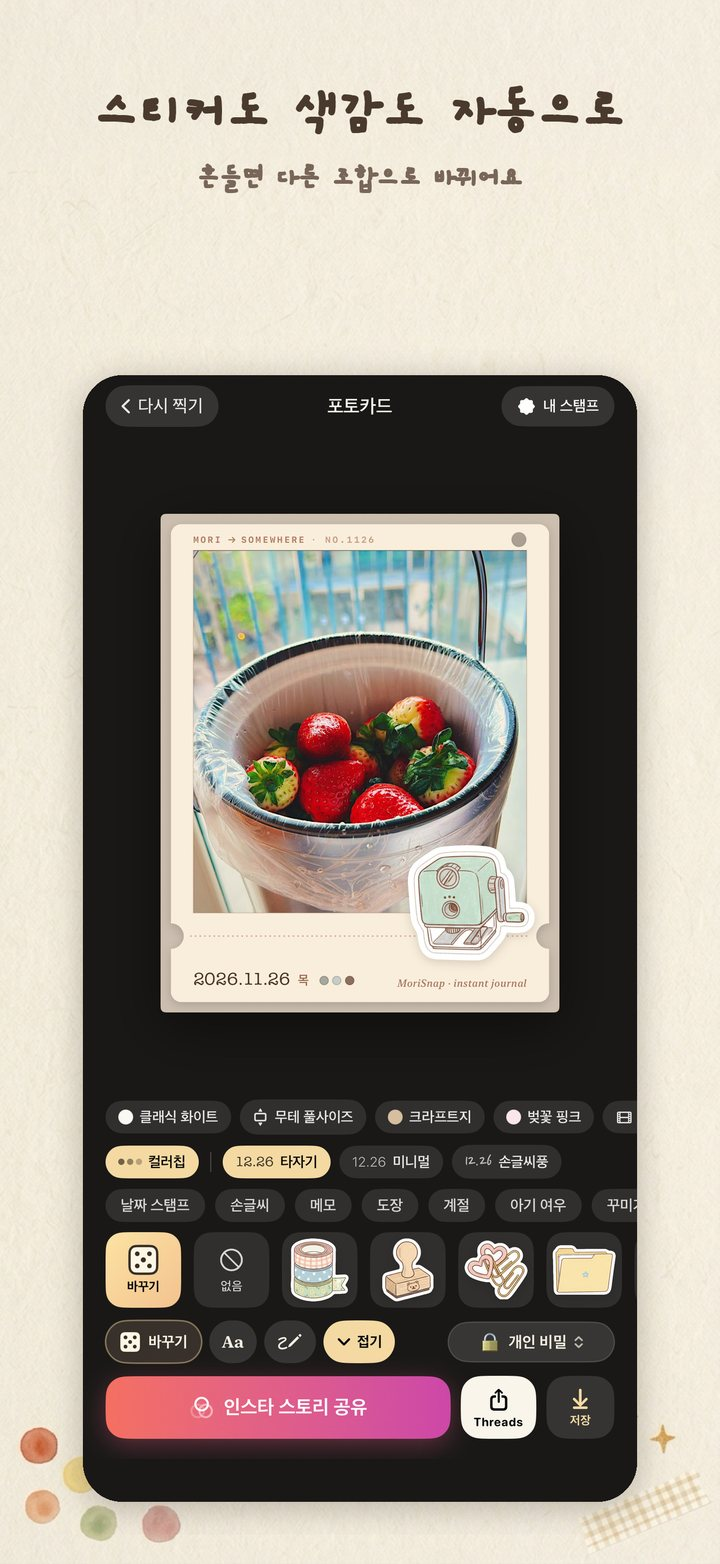
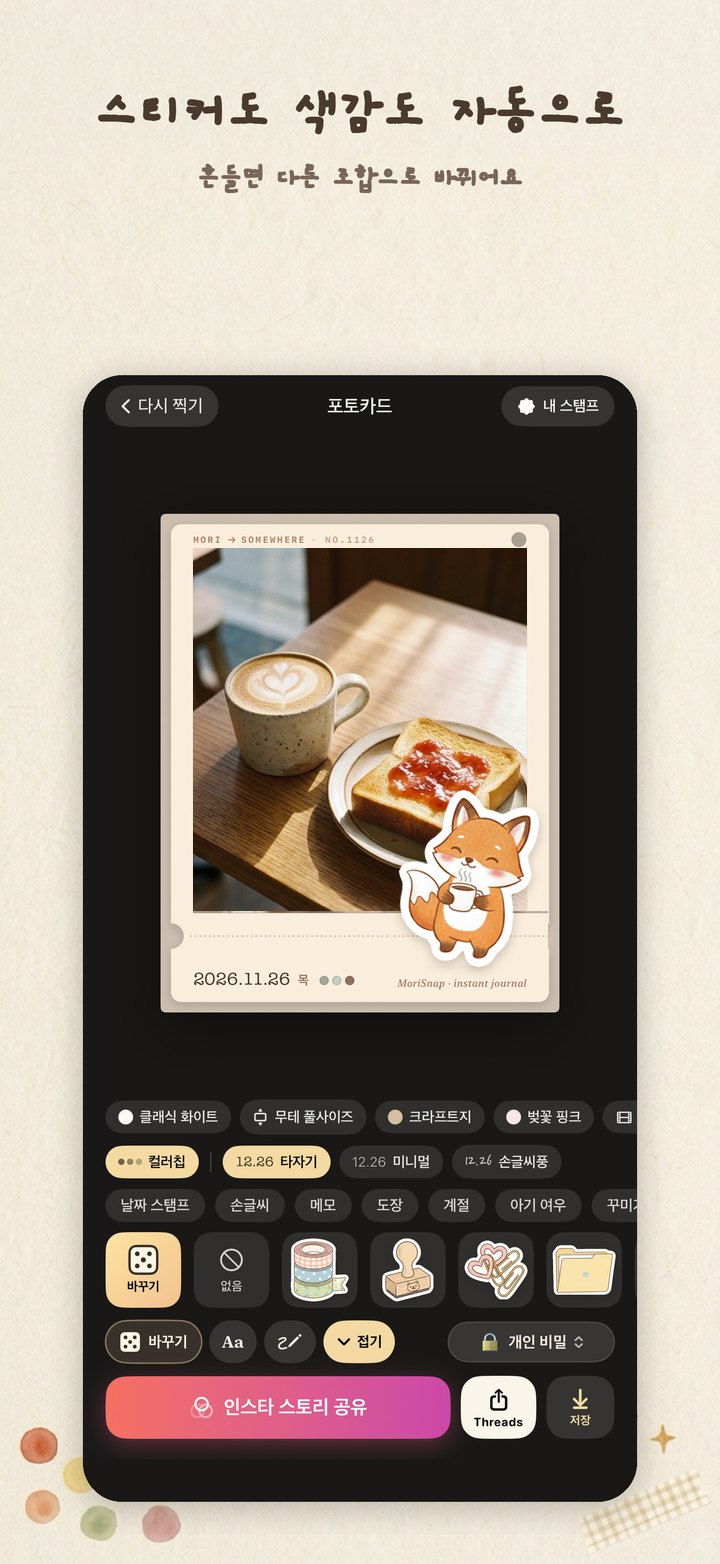
Upgrade 8 localized App Store screenshots on website with latte toast & strawberry parfait + Little Fox stickers

Changed region(s): [[0.2444, 0.3376, 0.7639, 0.6445]]

diff --git a/index.html b/index.html
@@ -83,12 +83,12 @@
     <span class="badge">6 張 iOS 實機截圖</span>
   </div>
   <div class="appstore-strip" aria-label="MoriSnap 繁體中文實機畫面">
-    <button type="button" class="appstore-shot" data-zoom="assets/appstore/zh/01.jpg"><img src="assets/appstore/zh/01.jpg" alt="MoriSnap 實機畫面 1" loading="lazy"></button>
-    <button type="button" class="appstore-shot" data-zoom="assets/appstore/zh/02.jpg"><img src="assets/appstore/zh/02.jpg" alt="MoriSnap 實機畫面 2" loading="lazy"></button>
-    <button type="button" class="appstore-shot" data-zoom="assets/appstore/zh/03.jpg"><img src="assets/appstore/zh/03.jpg" alt="MoriSnap 實機畫面 3" loading="lazy"></button>
-    <button type="button" class="appstore-shot" data-zoom="assets/appstore/zh/04.jpg"><img src="assets/appstore/zh/04.jpg" alt="MoriSnap 實機畫面 4" loading="lazy"></button>
-    <button type="button" class="appstore-shot" data-zoom="assets/appstore/zh/05.jpg"><img src="assets/appstore/zh/05.jpg" alt="MoriSnap 實機畫面 5" loading="lazy"></button>
-    <button type="button" class="appstore-shot" data-zoom="assets/appstore/zh/06.jpg"><img src="assets/appstore/zh/06.jpg" alt="MoriSnap 實機畫面 6" loading="lazy"></button>
+    <button type="button" class="appstore-shot" data-zoom="assets/appstore/zh/01.jpg?v=2"><img src="assets/appstore/zh/01.jpg?v=2" alt="MoriSnap 實機畫面 1" loading="lazy"></button>
+    <button type="button" class="appstore-shot" data-zoom="assets/appstore/zh/02.jpg?v=2"><img src="assets/appstore/zh/02.jpg?v=2" alt="MoriSnap 實機畫面 2" loading="lazy"></button>
+    <button type="button" class="appstore-shot" data-zoom="assets/appstore/zh/03.jpg?v=2"><img src="assets/appstore/zh/03.jpg?v=2" alt="MoriSnap 實機畫面 3" loading="lazy"></button>
+    <button type="button" class="appstore-shot" data-zoom="assets/appstore/zh/04.jpg?v=2"><img src="assets/appstore/zh/04.jpg?v=2" alt="MoriSnap 實機畫面 4" loading="lazy"></button>
+    <button type="button" class="appstore-shot" data-zoom="assets/appstore/zh/05.jpg?v=2"><img src="assets/appstore/zh/05.jpg?v=2" alt="MoriSnap 實機畫面 5" loading="lazy"></button>
+    <button type="button" class="appstore-shot" data-zoom="assets/appstore/zh/06.jpg?v=2"><img src="assets/appstore/zh/06.jpg?v=2" alt="MoriSnap 實機畫面 6" loading="lazy"></button>
   </div>
 
   <!-- 8 支玩法短片放映室 -->
@@ -230,12 +230,12 @@
     <span class="badge">6 App Store Screens</span>
   </div>
   <div class="appstore-strip" aria-label="MoriSnap English iOS screenshots">
-    <button type="button" class="appstore-shot" data-zoom="assets/appstore/en/01.jpg"><img src="assets/appstore/en/01.jpg" alt="MoriSnap iOS Screenshot 1" loading="lazy"></button>
-    <button type="button" class="appstore-shot" data-zoom="assets/appstore/en/02.jpg"><img src="assets/appstore/en/02.jpg" alt="MoriSnap iOS Screenshot 2" loading="lazy"></button>
-    <button type="button" class="appstore-shot" data-zoom="assets/appstore/en/03.jpg"><img src="assets/appstore/en/03.jpg" alt="MoriSnap iOS Screenshot 3" loading="lazy"></button>
-    <button type="button" class="appstore-shot" data-zoom="assets/appstore/en/04.jpg"><img src="assets/appstore/en/04.jpg" alt="MoriSnap iOS Screenshot 4" loading="lazy"></button>
-    <button type="button" class="appstore-shot" data-zoom="assets/appstore/en/05.jpg"><img src="assets/appstore/en/05.jpg" alt="MoriSnap iOS Screenshot 5" loading="lazy"></button>
-    <button type="button" class="appstore-shot" data-zoom="assets/appstore/en/06.jpg"><img src="assets/appstore/en/06.jpg" alt="MoriSnap iOS Screenshot 6" loading="lazy"></button>
+    <button type="button" class="appstore-shot" data-zoom="assets/appstore/en/01.jpg?v=2"><img src="assets/appstore/en/01.jpg?v=2" alt="MoriSnap iOS Screenshot 1" loading="lazy"></button>
+    <button type="button" class="appstore-shot" data-zoom="assets/appstore/en/02.jpg?v=2"><img src="assets/appstore/en/02.jpg?v=2" alt="MoriSnap iOS Screenshot 2" loading="lazy"></button>
+    <button type="button" class="appstore-shot" data-zoom="assets/appstore/en/03.jpg?v=2"><img src="assets/appstore/en/03.jpg?v=2" alt="MoriSnap iOS Screenshot 3" loading="lazy"></button>
+    <button type="button" class="appstore-shot" data-zoom="assets/appstore/en/04.jpg?v=2"><img src="assets/appstore/en/04.jpg?v=2" alt="MoriSnap iOS Screenshot 4" loading="lazy"></button>
+    <button type="button" class="appstore-shot" data-zoom="assets/appstore/en/05.jpg?v=2"><img src="assets/appstore/en/05.jpg?v=2" alt="MoriSnap iOS Screenshot 5" loading="lazy"></button>
+    <button type="button" class="appstore-shot" data-zoom="assets/appstore/en/06.jpg?v=2"><img src="assets/appstore/en/06.jpg?v=2" alt="MoriSnap iOS Screenshot 6" loading="lazy"></button>
   </div>
 
   <div class="theater-wrap" data-theater>
@@ -372,12 +372,12 @@
     <span class="badge">iOS 画面 6 枚</span>
   </div>
   <div class="appstore-strip" aria-label="MoriSnap 日本語アプリ画面">
-    <button type="button" class="appstore-shot" data-zoom="assets/appstore/ja/01.jpg"><img src="assets/appstore/ja/01.jpg" alt="MoriSnap アプリ画面 1" loading="lazy"></button>
-    <button type="button" class="appstore-shot" data-zoom="assets/appstore/ja/02.jpg"><img src="assets/appstore/ja/02.jpg" alt="MoriSnap アプリ画面 2" loading="lazy"></button>
-    <button type="button" class="appstore-shot" data-zoom="assets/appstore/ja/03.jpg"><img src="assets/appstore/ja/03.jpg" alt="MoriSnap アプリ画面 3" loading="lazy"></button>
-    <button type="button" class="appstore-shot" data-zoom="assets/appstore/ja/04.jpg"><img src="assets/appstore/ja/04.jpg" alt="MoriSnap アプリ画面 4" loading="lazy"></button>
-    <button type="button" class="appstore-shot" data-zoom="assets/appstore/ja/05.jpg"><img src="assets/appstore/ja/05.jpg" alt="MoriSnap アプリ画面 5" loading="lazy"></button>
-    <button type="button" class="appstore-shot" data-zoom="assets/appstore/ja/06.jpg"><img src="assets/appstore/ja/06.jpg" alt="MoriSnap アプリ画面 6" loading="lazy"></button>
+    <button type="button" class="appstore-shot" data-zoom="assets/appstore/ja/01.jpg?v=2"><img src="assets/appstore/ja/01.jpg?v=2" alt="MoriSnap アプリ画面 1" loading="lazy"></button>
+    <button type="button" class="appstore-shot" data-zoom="assets/appstore/ja/02.jpg?v=2"><img src="assets/appstore/ja/02.jpg?v=2" alt="MoriSnap アプリ画面 2" loading="lazy"></button>
+    <button type="button" class="appstore-shot" data-zoom="assets/appstore/ja/03.jpg?v=2"><img src="assets/appstore/ja/03.jpg?v=2" alt="MoriSnap アプリ画面 3" loading="lazy"></button>
+    <button type="button" class="appstore-shot" data-zoom="assets/appstore/ja/04.jpg?v=2"><img src="assets/appstore/ja/04.jpg?v=2" alt="MoriSnap アプリ画面 4" loading="lazy"></button>
+    <button type="button" class="appstore-shot" data-zoom="assets/appstore/ja/05.jpg?v=2"><img src="assets/appstore/ja/05.jpg?v=2" alt="MoriSnap アプリ画面 5" loading="lazy"></button>
+    <button type="button" class="appstore-shot" data-zoom="assets/appstore/ja/06.jpg?v=2"><img src="assets/appstore/ja/06.jpg?v=2" alt="MoriSnap アプリ画面 6" loading="lazy"></button>
   </div>
 
   <div class="theater-wrap" data-theater>
@@ -514,12 +514,12 @@
     <span class="badge">앱 화면 6종</span>
   </div>
   <div class="appstore-strip" aria-label="MoriSnap 한국어 앱 화면">
-    <button type="button" class="appstore-shot" data-zoom="assets/appstore/ko/01.jpg"><img src="assets/appstore/ko/01.jpg" alt="MoriSnap 앱 화면 1" loading="lazy"></button>
-    <button type="button" class="appstore-shot" data-zoom="assets/appstore/ko/02.jpg"><img src="assets/appstore/ko/02.jpg" alt="MoriSnap 앱 화면 2" loading="lazy"></button>
-    <button type="button" class="appstore-shot" data-zoom="assets/appstore/ko/03.jpg"><img src="assets/appstore/ko/03.jpg" alt="MoriSnap 앱 화면 3" loading="lazy"></button>
-    <button type="button" class="appstore-shot" data-zoom="assets/appstore/ko/04.jpg"><img src="assets/appstore/ko/04.jpg" alt="MoriSnap 앱 화면 4" loading="lazy"></button>
-    <button type="button" class="appstore-shot" data-zoom="assets/appstore/ko/05.jpg"><img src="assets/appstore/ko/05.jpg" alt="MoriSnap 앱 화면 5" loading="lazy"></button>
-    <button type="button" class="appstore-shot" data-zoom="assets/appstore/ko/06.jpg"><img src="assets/appstore/ko/06.jpg" alt="MoriSnap 앱 화면 6" loading="lazy"></button>
+    <button type="button" class="appstore-shot" data-zoom="assets/appstore/ko/01.jpg?v=2"><img src="assets/appstore/ko/01.jpg?v=2" alt="MoriSnap 앱 화면 1" loading="lazy"></button>
+    <button type="button" class="appstore-shot" data-zoom="assets/appstore/ko/02.jpg?v=2"><img src="assets/appstore/ko/02.jpg?v=2" alt="MoriSnap 앱 화면 2" loading="lazy"></button>
+    <button type="button" class="appstore-shot" data-zoom="assets/appstore/ko/03.jpg?v=2"><img src="assets/appstore/ko/03.jpg?v=2" alt="MoriSnap 앱 화면 3" loading="lazy"></button>
+    <button type="button" class="appstore-shot" data-zoom="assets/appstore/ko/04.jpg?v=2"><img src="assets/appstore/ko/04.jpg?v=2" alt="MoriSnap 앱 화면 4" loading="lazy"></button>
+    <button type="button" class="appstore-shot" data-zoom="assets/appstore/ko/05.jpg?v=2"><img src="assets/appstore/ko/05.jpg?v=2" alt="MoriSnap 앱 화면 5" loading="lazy"></button>
+    <button type="button" class="appstore-shot" data-zoom="assets/appstore/ko/06.jpg?v=2"><img src="assets/appstore/ko/06.jpg?v=2" alt="MoriSnap 앱 화면 6" loading="lazy"></button>
   </div>
 
   <div class="theater-wrap" data-theater>
